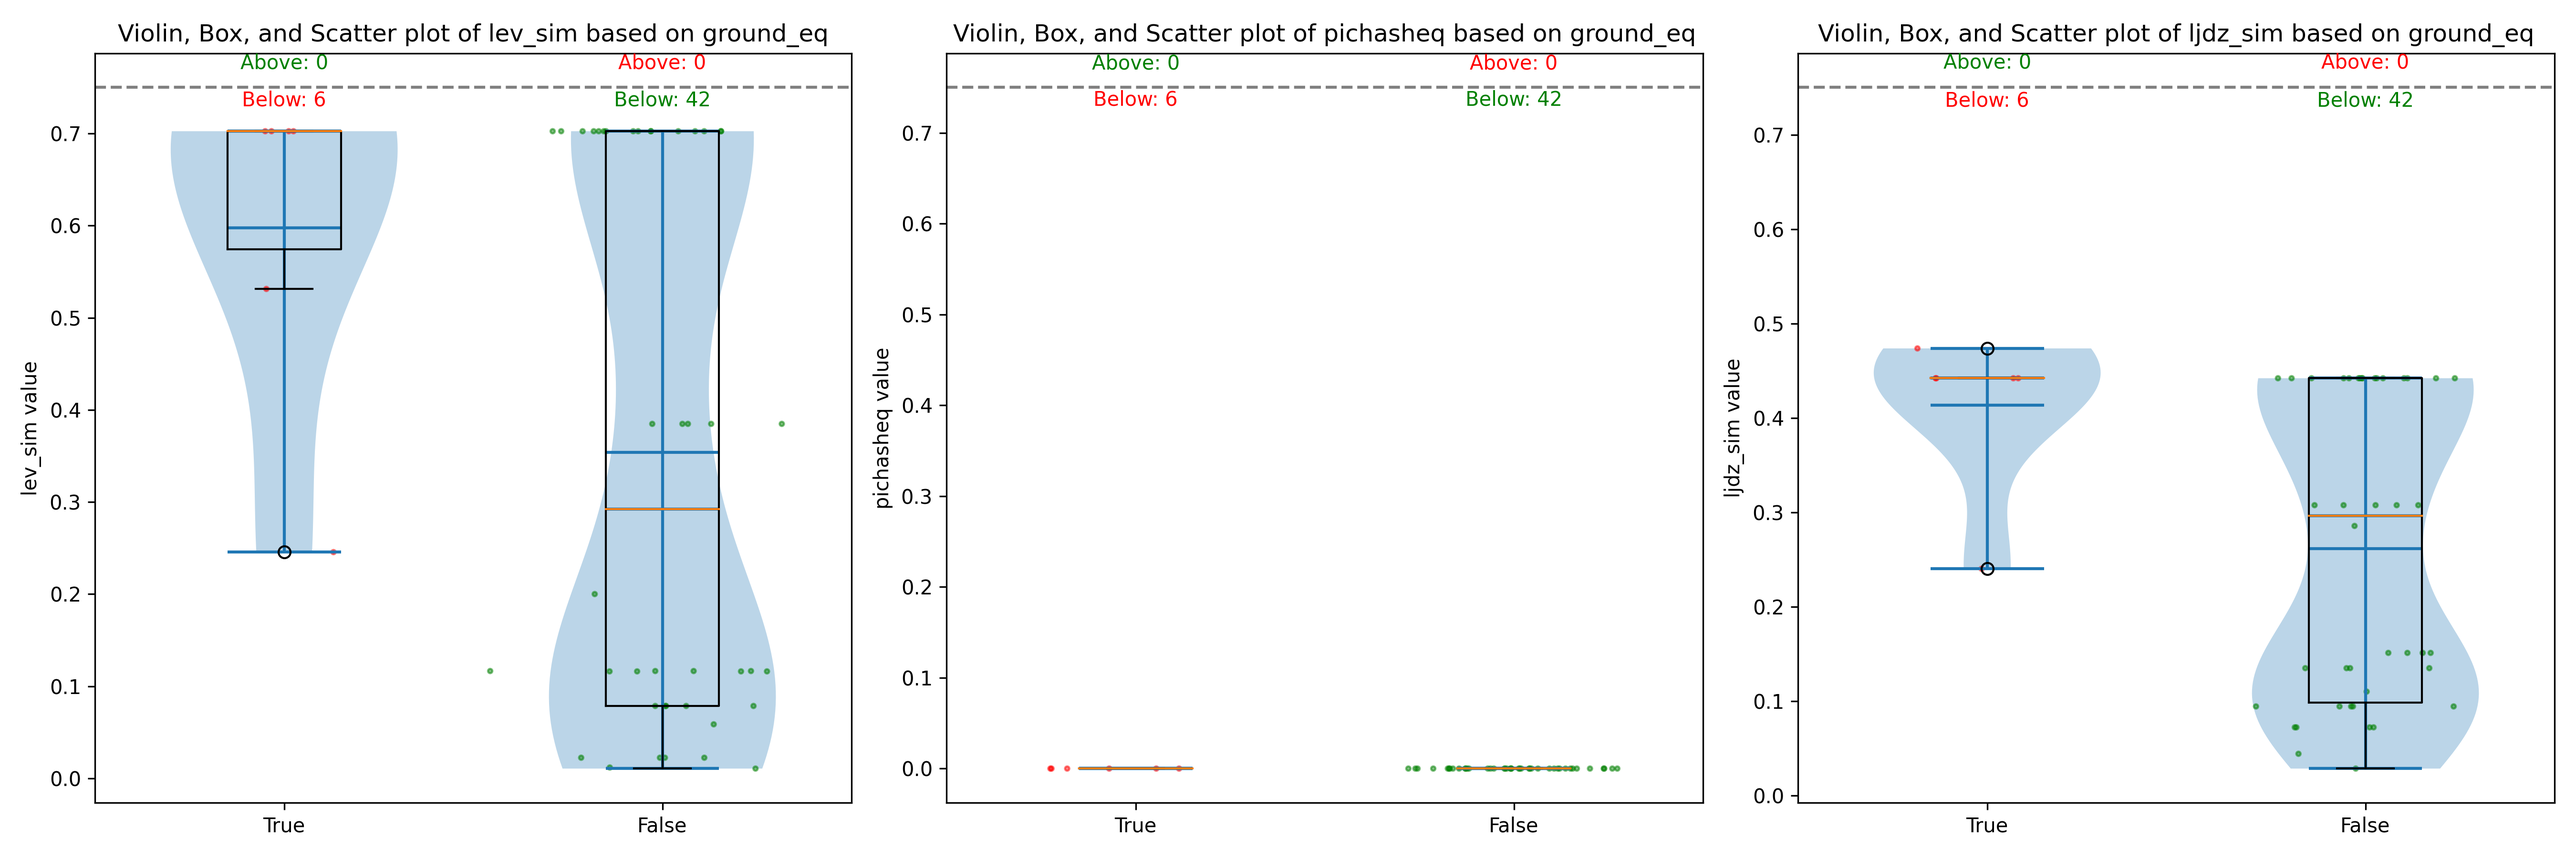
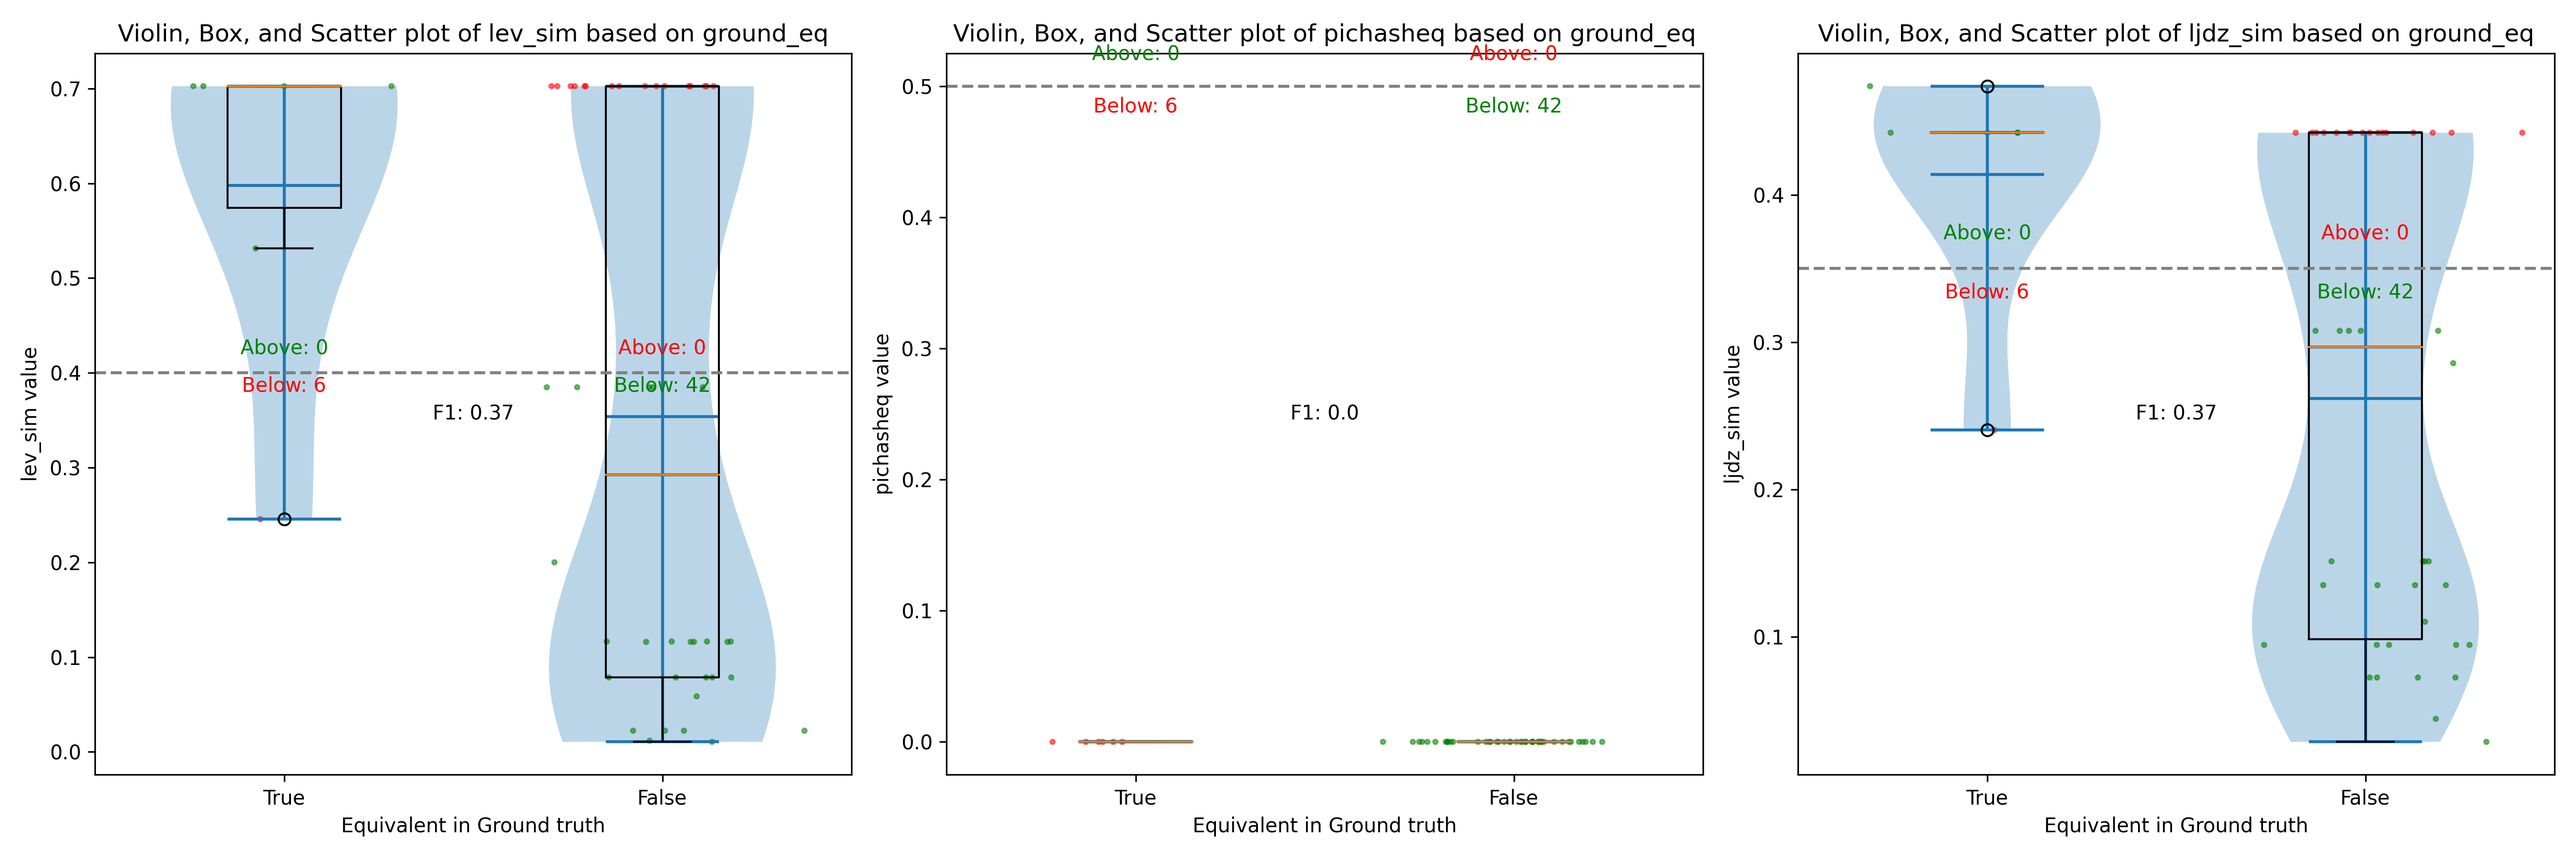
Graph update.  Add new comparison with 1.1.1v and 1.1.1w

diff --git a/lzjd-script.py b/lzjd-script.py
@@ -461,14 +461,15 @@ def violin_plot(data, fname):
 
     best_lzjd = get_best_threshold('lzjd')
     best_lev = get_best_threshold('lev')
+    best_hash = get_best_threshold('pic')
     #print(f"Best LZJD Threshold: {best_lzjd}")
     #print(f"Best LEV Threshold: {best_lev}")
 
     # Group data for the plots
     plot_data = {
-        'lev_sim': [lev_sim_true, lev_sim_false, best_lev['threshold']],
-        'pichasheq': [pichasheq_true, pichasheq_false, 0.5],
-        'ljdz_sim': [ljdz_sim_true, ljdz_sim_false, best_lzjd['threshold']]
+        'lev_sim': [lev_sim_true, lev_sim_false, best_lev['threshold'], best_lev['f1']],
+        'pichasheq': [pichasheq_true, pichasheq_false, 0.5, best_hash['f1']],
+        'ljdz_sim': [ljdz_sim_true, ljdz_sim_false, best_lzjd['threshold'], best_lzjd['f1']]
     }
 
     # Function to apply jitter
@@ -504,6 +505,7 @@ def violin_plot(data, fname):
     for idx, (label, data) in enumerate(plot_data.items()):
 
         threshold = data[2]
+        f1 = data[3]
         data = data[:2]
 
         # Violin plot
@@ -528,8 +530,11 @@ def violin_plot(data, fname):
         axes[idx].annotate(f'Above: {above_false}', (positions[1], threshold + 0.02), ha='center', color=af_color)
         axes[idx].annotate(f'Below: {below_false}', (positions[1], threshold - 0.02), ha='center', color=bf_color)
         
+        axes[idx].annotate(f'F1: {f1:.2}', xy=(0.5, 0.5), xycoords='axes fraction', ha='center', va='center', fontsize=10)
+
         axes[idx].set_title(f'Violin, Box, and Scatter plot of {label} based on ground_eq')
         axes[idx].set_ylabel(f'{label} value')
+        axes[idx].set_xlabel('Equivalent in Ground truth')
         axes[idx].set_xticks(positions)
         axes[idx].set_xticklabels(['True', 'False'])
 
